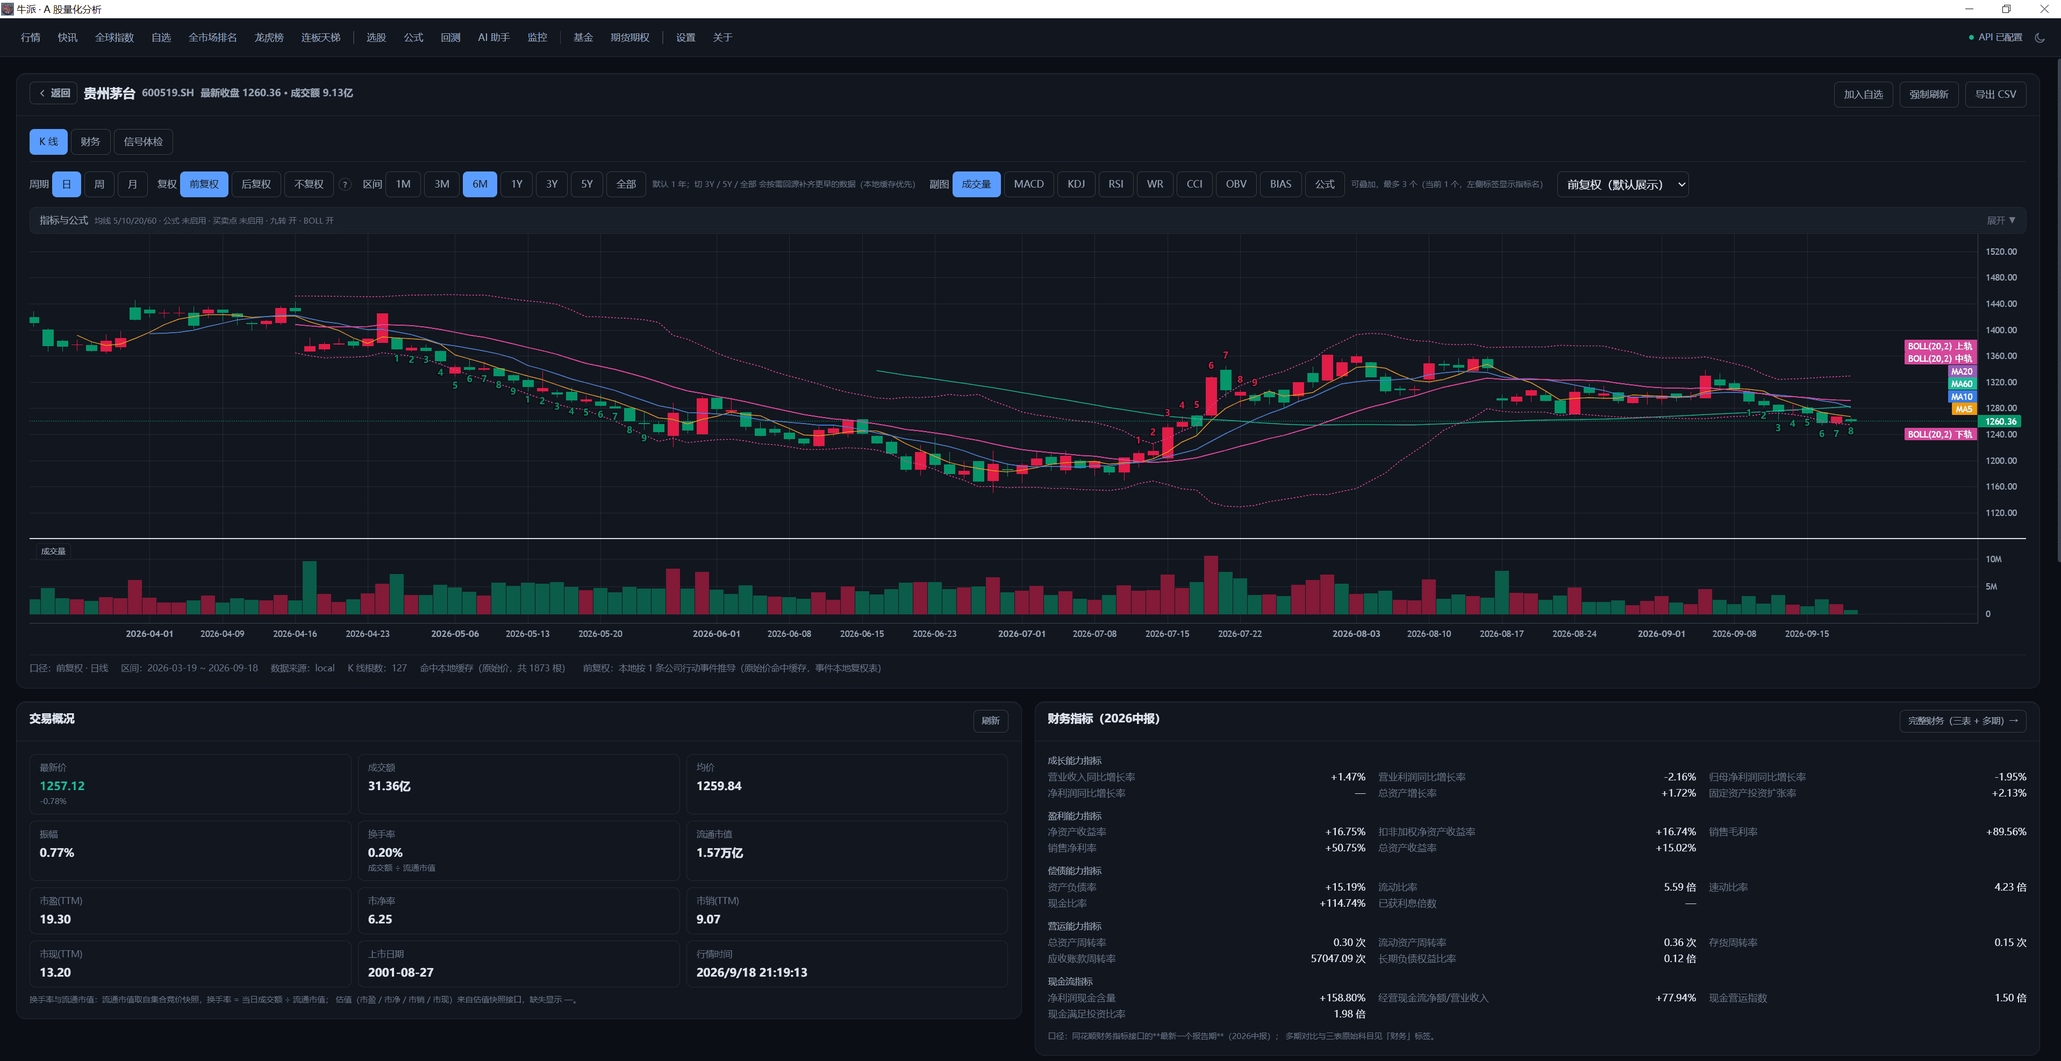
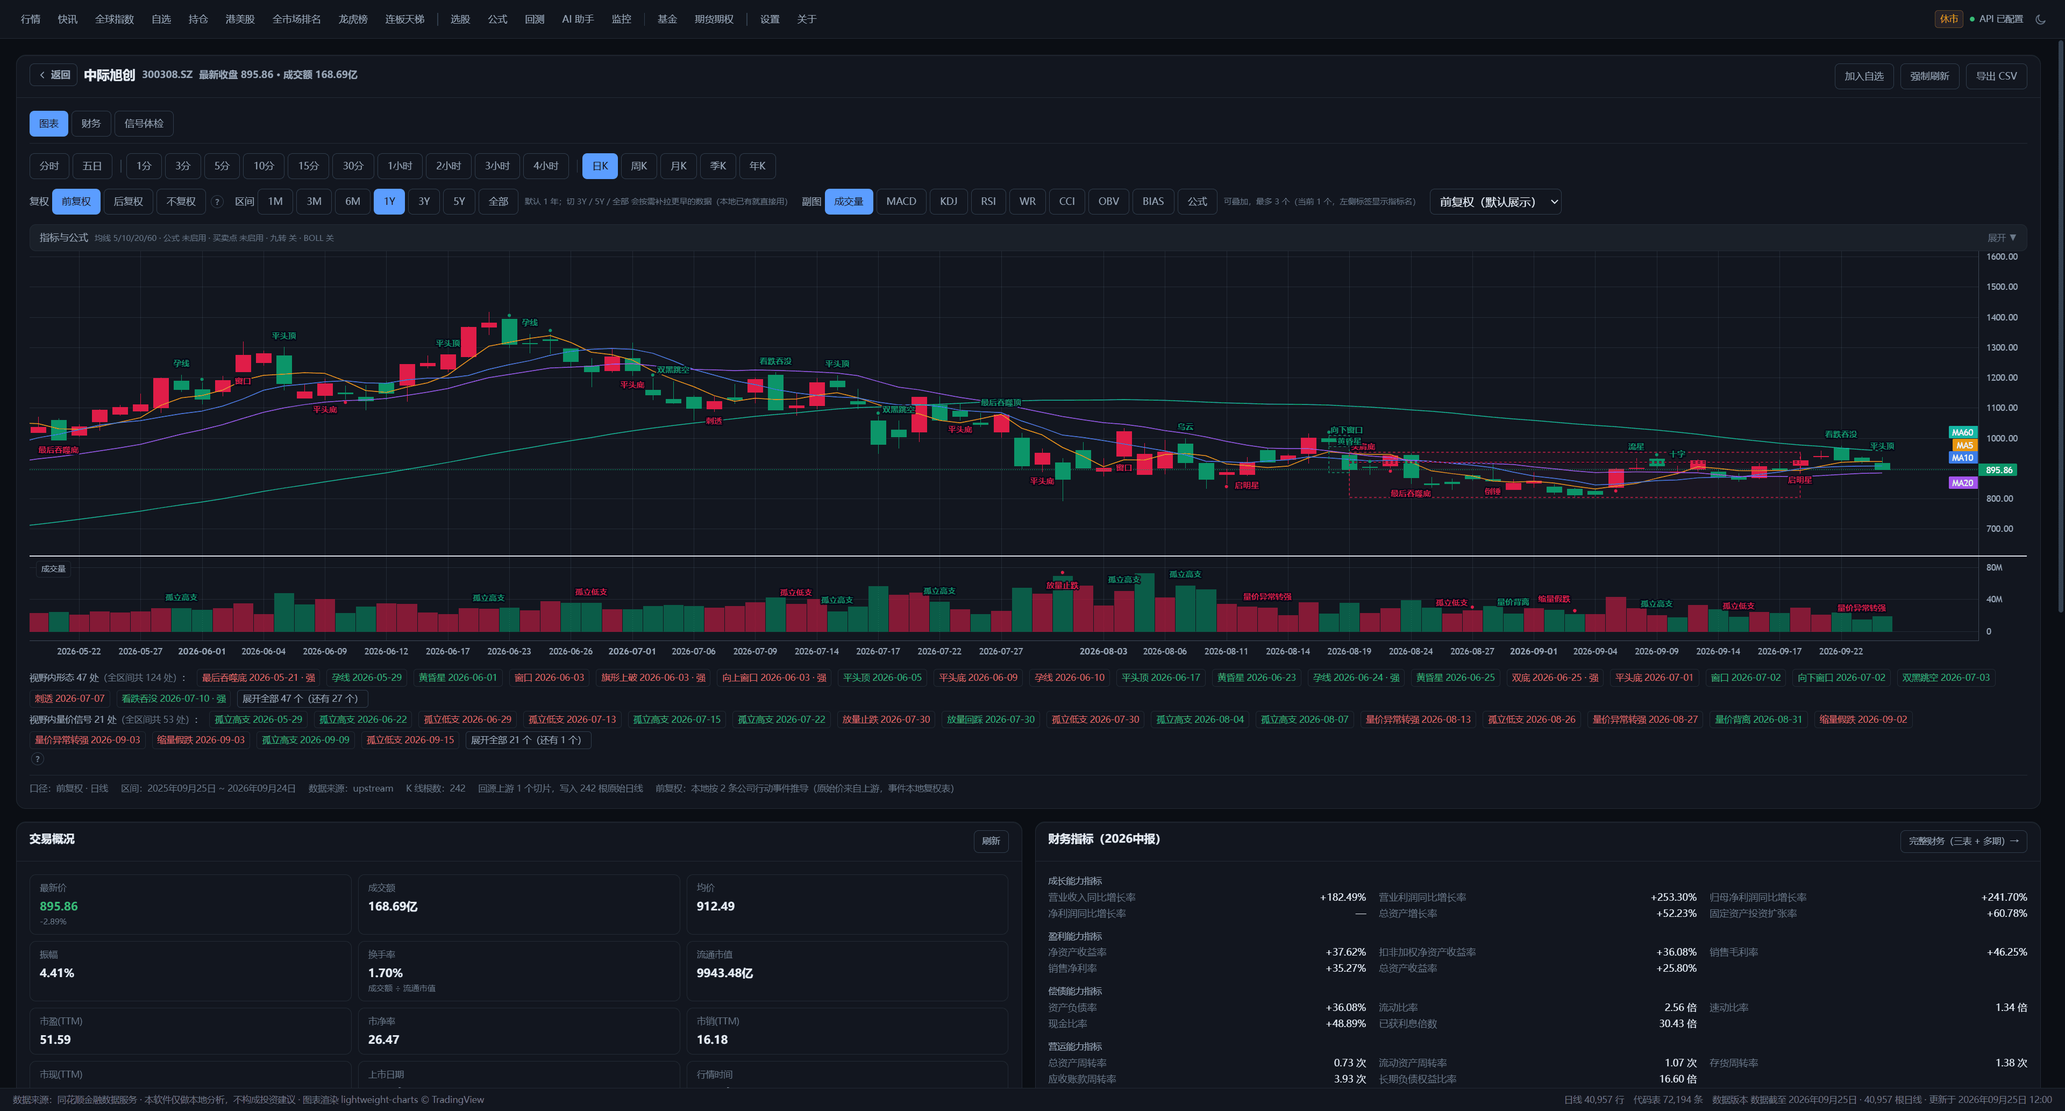
release 0.8.0

diff --git a/USER-GUIDE.md b/USER-GUIDE.md
@@ -33,7 +33,7 @@
 
 ## 二、从搜索一只股票开始
 
-在首页搜索框输入名称、代码或简称（「茅台」、`600519`），回车进入个股页。
+在首页搜索框输入名称、代码、简称或**拼音首字母**（「茅台」、`600519`、`gzmt` / `dkl`），回车进入个股页；首字母撞车的股票会一起列在下拉里，自己挑。
 
 ![行情总览](screenshot/1-1行情.png)
 
@@ -41,11 +41,11 @@
 
 ![行情总览补充](screenshot/1-2行情.png)
 
-个股页可看日 / 周 / 月 K 线，切换复权方式，叠加均线、MACD、RSI、成交量等指标。
+个股页可看日 / 周 / 月 K 线，切换复权方式，叠加均线、MACD、RSI、成交量等指标。分时图右边一列是**相对昨收的涨跌幅**，鼠标移到图上会出十字线，能看到那一刻的时间、价格、涨跌幅、均价和成交量。
 
 ![个股详情](screenshot/2-1详情.png)
 
-向下还有财务、分红、人气、异动、资金流、股东户数和公告等信息，每块都标注了自己的数据来源。
+向下还有财务、分红、人气、异动、资金流、股东户数和公告等信息，每块都标注了自己的数据来源。「公告」每条右侧有个**「AI 分析」**（配好模型才出现）：点开给出这条公告在说什么、偏利好还是偏利空、要关注什么。它**先取公告正文**再交给模型（正文里才有每股派息、股权登记日这类条款），正文取不到才退回只依据标题，弹框里会写明这次用的是哪一种。
 
 ![个股详情补充](screenshot/2-2详情.png)
 
@@ -55,7 +55,7 @@
 
 ### 自选股
 
-在个股页或列表里把股票加入自选。自选页支持分组、拖拽排序、批量看行情与手动 / 自动刷新；右键可以加入分组或移出自选。
+在个股页或列表里把股票加入自选。自选页支持分组、拖拽排序、批量看行情与手动 / 自动刷新；右键可以加入分组或移出自选。**新加入的自选排在列表最上面**。
 
 ![自选股](screenshot/5-自选.png)
 
@@ -84,6 +84,8 @@
 页面顶部「当日概览」给当日盈亏、收益率和相对上证的同期超额；下面几张卡分别打开资产分析、清仓分析、收益日历与交易笔记。
 
 行情口径：**开盘日按实时最新价算**，**非开盘日按最近一个收盘价算**（标题上会写明用的是哪种）；「相比上证」是同一时点的单日超额，不是建仓以来的累计。
+
+「当前持仓」卡里还有一张**行业分布环图**（按持仓市值算占比；ETF 与港美股归「未分类」），右边是同一口径的明细表——每个行业的持仓市值、浮动盈亏、收益率和只数，再右边是「最大行业 / 前三大合计 / 未分类占比 / 合计浮动盈亏」的小结。配好 AI 助手后，卡片右上角出现**「AI 分析持仓」**：软件先把权重、前三集中度、行业分布、逐只盈亏和同期大盘算好，再让模型做客观解读并提示需要关注的点（不给买卖建议，弹框里可以核对本地摘要与「将发送的内容」）。
 
 - **资产分析**：各区间盈亏、收益率、收益曲线、股票盈亏热力图、当前持仓、胜率与仓位；
 - **清仓分析**：已卖完的股票、累计投入、交易盈亏、分红与收益率；
@@ -132,9 +134,22 @@
 
 ![AI 助手](screenshot/11-ai助手.png)
 
+AI 助手页顶部有两个 tab：**问答与任务**（配置模型、提问、看历史）和**技能与知识库**。后者按**技能包**分层：一份知识 = 一个包，包里是一条条**条目**。软件自带四个包：**《日本蜡烛图技术》**（形态的术语、判据、前提与易错点，以及「怎么用」的几条，共 22 条）、**《日本蜡烛图技术新解》**（差异指数 / 偏离指数、三线反向突破图、砖形图、钥匙图，共 4 条，只做解释）、**《股市趋势技术分析》**（趋势线与通道、支撑与阻力、头肩、三角、矩形、旗形、缺口等西方经典图表分析，共 13 条）、**《量价分析》**（放量止跌止涨、买入 / 抛售高峰、缩量测试、孤立支点、伪突破这些量能读法，共 12 条）——除《新解》外，其余三个包里**可量化的那些条目会在 K 线图上自动标注**。多条目的包收成一行，点包名展开。列表里能**整包启停**（也可以只关掉包里的某一条）、上下调顺序（顺序越靠前，问到时越优先被参考；整包的上下移就是调包的位置）、写只存在本机的备注，点「预览」直接看内容。你也可以把自己的知识放进「打开技能目录」指向的 `skills\` 文件夹里：直接丢一个 md 文件进去，或者把从别处下载来的整个技能文件夹放进去（里面有 `SKILL.md` 就按那条收，`scripts\`、`references\` 这类内容会被跳过）；点「重新扫描」就会出现在列表里。不是软件格式的（比如第三方技能只写了 name / description）也会被收下，来源标「外部」——这类只参与问答参考，不会出现在 K 线形态识别里；几条想并进一个包，就在文件开头的信息块里写同一个 `collection`。软件内不改正文，也不执行技能文件里的任何脚本。
+
+个股 K 线页的「指标与公式」面板里还有两个开关：
+
+- **「形态标注（蜡烛图 + 经典图表）」**：打开后 K 线上标出识别到的形态（看涨在下、看跌在上）；头肩、双顶底、三角这类**区间形态**会画区间框与突破位，不想看到框可以把子开关「区间框」单独关掉。
+- **「量价信号（《量价分析》）」**：放量止跌 / 放量止涨、买入 / 抛售高峰、缩量测试、孤立支点、缩量伪突破这些量能读法，短名标在**成交量副图**对应的量柱上（副图关着时只在图下形态条里列出）。
+
+图下的形态条**按类目分行**（形态一行、量价信号一行），只列当前视野内的命中——点一个标签就能看到「这个形态是什么、这次为什么算命中、依据是哪几个数值」。两个开关各自独立，共用同一次扫描，关掉一个不影响另一个。判定完全在本地完成（判据是公开的技术分析规则，阈值都是相对比例，所以**跟着当前周期走**：日线看日线形态、周线看周线形态）；港美股个股 K 线用的是同一套开关与知识库（日线及以上），也不构成买卖建议。
+
+个股页右上角还有一个**「AI 分析」**（配好模型才出现）：它先把这只票的价格位置、均线、RSI / MACD / KDJ、量能和**上面那些知识库形态的命中**算成一份本地摘要，再让模型按知识库的说法讲清「现在是什么结构、这些形态各意味着什么、后面可以观察什么信号」，**不给买卖建议、也不预测涨跌**。写法面向不懂技术分析的人：第一句先给结论，遇到术语会顺带用大白话解释一遍；**明确的看涨 / 利多用红字、看跌 / 利空用绿字**（没标色的都是中性描述）。摘要和「将发送的内容」都能在弹框里逐条核对；**关掉弹框时正在跑的那次解读会直接中断**（不会在后台继续等结果、也不会继续计费），想重看再点一次就行。快讯、公告的 AI 解读与持仓分析也是同一套：关掉就走。分析用的周期、复权与**时间范围就是你图上那一套**——范围取图上 X 轴那段，滚轮缩放或拖动后点按钮，分析的就跟着变成眼前这段（均线 / MACD 这类指标会用这段之前的少量数据预热，和图上画指标同理）。
+
 ### 监控和消息推送（可选）
 
 在监控页建规则（价格、涨跌幅、公式信号等），可选收盘巡检或盘中巡检，推送到企业微信、企业微信机器人或飞书群机器人。推送内容是本地规则算出的摘要，不会把原始行情整包转发；推送凭据同样只存在本机。
+
+自选页分组那一行下面还有一条「**收盘 AI 总结**」（默认关，只占一行）：打开后，交易日 16:00 之后对自选生成一次总结（涨跌家数与前排、放量、当日公告与相关快讯）并推送到上面这些通道，每天最多一次；点「立即生成一次」可以马上看到效果（结果在弹窗里，不占列表位置；手动跑不占用当天的自动推送名额）。摘要里的数字都是本地算好的，模型只负责组织语言，另外会对当日公告标题做一次「是否重大利空」的判断——命中的标的当天只提醒一次；没配好模型时会只推本地摘要并说明原因。
 
 ![监控推送](screenshot/12-监控推送到企微飞书.png)
 
@@ -160,7 +175,7 @@
 - **指数条**：恒生指数 / 恒生国企 / 道琼斯 / 标普 500 / 纳斯达克综合。指数本身只有盘中价，第二行给对应的**指数期货主连**（第三方数据）用来看盘前和夜盘；取不到时退回跟踪同一指数的 ETF。纳指综合跟的是纳指 100 的期货，只作方向参考。
 - **自选**：与 A 股自选分开存，可搜代码或名称加入（指数也能加），列表带涨跌额、涨跌幅、自选以来涨跌幅和迷你走势。
 - **交易日历**：页面顶部标明今天港股 / 美股开不开市、各自的交易时段；自选的自动刷新按它走，休市日想手动看数据点「立即刷新」。
-- **个股**：K 线（日 / 周 / 月 / 季 / 年与 1–240 分钟）、分时、静态资料、估值与规模、基本面、资讯。美股分时可切「盘前 / 盘中 / 盘后 / 夜盘」（夜盘要求该标的在长桥的夜盘可交易名单里），港股只有常规时段和 16:00–16:10 收盘竞价。
+- **个股**：K 线（日 / 周 / 月 / 季 / 年，以及 1 / 5 / 15 / 30 / 60 分与 2 / 3 / 4 小时；日线及以上可切不复权 / 前复权，**形态标注与量价信号也只在日线及以上生效**）、分时、静态资料、估值与规模、基本面、资讯。美股分时可切「盘前 / 盘中 / 盘后 / 夜盘」（夜盘要求该标的在长桥的夜盘可交易名单里），港股只有常规时段和 16:00–16:10 收盘竞价。
 - **分时时段**：美股的分时入口是详情卡头部的下拉（「分时 · 夜盘」这种写法）——选哪一段就直接切到分时并画那一段；图上悬停显示该时点的价、涨跌幅、均价与该分钟成交量。当前不在所选时段时，自动显示**上一个交易日同一时段**的分时。
 - **资金流**：跟在 K 线 / 分时图表下方（不用切 tab）。左边是当日**累计净流入曲线**（横轴当地时间、悬停看该分钟），右边是**资金分布**（环图 + 大 / 中 / 小三档的蝶形对照条，两侧同一把尺子）。曲线是「从开盘起的累计值」（末点即当日合计），单分钟可能有较大台阶，不是画错。
 - **分钟级 K 线跟着时段走**：选 1 分 / 5 分 / … / 4 小时时，画的是时段下拉里选中的那一段，且**只看最近一个交易日的那一段**（5 分 + 盘中 = 从最近交易日的 09:30 开始）。日 K 及以上不分时段，港股也没有延长时段。

diff --git a/README.md b/README.md
@@ -45,15 +45,19 @@
 ## 可以做什么
 
 - **看市场**：查看大盘、涨跌分布、板块表现、资金情况和市场快讯。
-- **看个股**：搜索股票，查看 K 线、指标、财务摘要、公告等信息。
-- **管理自选**：把常看的股票加入自选并按分组整理；也能**批量导入**（上传 CSV/TSV 或粘贴一列代码与名称，本地解析、本地匹配后再入库）。
-- **记录持仓**：补录买卖、分红和出入金，查看当日概览、仓位占比、收益日历、清仓分析、交易笔记及股票盈亏排行；资产分析和收益日历还可以与上证指数做同期对比。
+- **看个股**：搜索股票（名称 / 代码 / **拼音首字母**，如 `gzmt` → 贵州茅台），查看 K 线、指标、财务摘要、公告等信息；「公告」每条可点**「AI 分析」**（配好模型才出现），先取正文再让模型说这条公告在说什么、偏利好还是偏利空。
+- **管理自选**：把常看的股票加入自选并按分组整理（**新加入的排在列表最上面**）；也能**批量导入**（上传 CSV/TSV 或粘贴一列代码与名称，本地解析、本地匹配后再入库）。
+- **记录持仓**：补录买卖、分红和出入金，查看当日概览、仓位占比、**持仓行业分布环图**、收益日历、清仓分析、交易笔记及股票盈亏排行；资产分析和收益日历还可以与上证指数做同期对比；配好模型后可用**「AI 分析持仓」**看权重、集中度、行业分布与逐只盈亏的客观解读（不给买卖建议）。
 - **条件选股**：使用内置条件或自定义公式筛选股票。
 - **策略回测**：用历史数据检查策略过去的表现，并查看收益曲线和交易明细。
 - **设置提醒**：满足价格、涨跌幅或公式条件时，发送到已配置的通知渠道。
 - **查看更多市场**：查看全球指数、公募基金、期货和期权等信息。
 - **看港美股（可选）**：接入长桥 OpenAPI，查看港股 / 美股的指数、自选、K 线与分时（美股还能单独看盘前 / 盘中 / 盘后 / 夜盘）、**个股资金流**、静态资料、**基本面（财报三表 / 主营构成 / 股东与高管 / 分红回购 / 一致预期与估值历史）**与**资讯（新闻 / 公告 / 机构评级；A+H 标的还显示 AH 溢价）**；页面顶部有**交易日历**（今天哪个市场开市、各自时段，自选刷新按它走），指数卡片下方挂着对应的**指数期货主连**，用来看盘前和夜盘的走向。**只读行情，不接交易通道、不下单。**
 - **使用 AI 助手**：可选接入本地模型或自己的模型服务，用来解释结果和整理思路。
+- **收盘 AI 总结（可选）**：自选页上的一行开关，交易日 16:00 后对自选生成一次总结并推送到已配置的通道，每天最多一次；正文由模型组织，数字全部来自本地算好的摘要，模型还会对当日公告标题做一次「重大利空」判定（同一标的当日只提醒一次）。不需要可以完全不开。
+- **形态标注（可选）**：个股页「指标与公式」里的两个开关。**「形态标注」**按内置知识库在本机识别蜡烛图（乌云盖顶、红三兵这类）与经典图表形态（头肩、双顶底、三角、旗形、缺口…）：图上标短名、区间形态画框与突破位，图下**按类目分行**列出命中并给出依据数值，**跟着当前周期走**（日线看日线、周线看周线），港美股 K 线用的是同一套。**「量价信号（《量价分析》）」**是独立的第二个开关，把量能读法标在**成交量副图**上。判定全在本地完成，模型不参与。终端可用 `bull-pie-cli patterns <代码> --start <日期> --end <日期>` 验证同一份结果。
+- **个股 AI 分析（可选）**：个股页右上角的**「AI 分析」**。软件先把这只票的价格位置、均线、RSI / MACD / KDJ、量能算好，再把**图上那些知识库形态的命中**（名字、前提、确认条件、依据数值）一起交给模型，让它讲清「现在的结构是什么、这些形态各意味着什么、后面可以观察什么信号」。**不预测涨跌、不给买卖建议**；分析用的周期与复权就是你当前图上的那一套，弹框里可以逐条核对它看到了什么。
+- **技能与知识库**：AI 助手页的第二个 tab。按「技能包」分两层层级：一份知识 = 一个包，包里是一条条条目；多个条目的包收成一行，可整包启停、整体调顺序。软件自带四个包：**《日本蜡烛图技术》**（形态术语、判据与用法，22 条）、**《日本蜡烛图技术新解》**（差异指数 / 偏离指数、三线反向突破图、砖形图、钥匙图，4 条，只解释）、**《股市趋势技术分析》**（趋势线、支撑阻力、头肩、三角、矩形、旗形、缺口等西方经典图表分析，13 条）、**《量价分析》**（量能读法：放量止跌止涨、高峰、缩量测试、孤立支点、伪突破，12 条）——除《新解》外，其余包里可量化的条目会在 K 线上自动标注。你也可以把自己的 md 放进数据目录的 `skills/` 目录里，助手回答相关问题时会参考；软件只读这些文件、**不执行里面的任何脚本**。
 
 部分功能需要先在 **设置 → 数据** 中导入全市场日线。首次导入需要一点时间，之后通常只需更新新增数据。
 

diff --git a/cli-intro.md b/cli-intro.md
@@ -15,6 +15,7 @@
 | **批量跑回测参数**（网格搜索） | `for f in specs/*.json; do bull-pie-cli backtest run --spec "$f" --out "out/$(basename "$f")"; done` |
 | **把自己算的结果导给 Python / Excel** | `bull-pie-cli bars 600519.SH --start 2026-01-01 --end 2026-09-18 --json > bars.json` |
 | **找相似走势的票，接进别的流程** | `bull-pie-cli shape --reference 600519.SH --vol-days 2 --vol-ratio 1.5 --near-low 8 --json` |
+| **核对图上标的形态**（哪一根、凭什么算命中） | `bull-pie-cli patterns 600519.SH --start 2026-01-01 --end 2026-09-24 --interval week --json` |
 | **先看环境对不对**（排障第一步） | `bull-pie-cli status` |
 | **给 AI 客户端当数据源** | `bull-pie-cli mcp`（见 [mcp-intro.md](mcp-intro.md)） |
 | **收盘后拉一批价量**（自选 / 指定标的） | `bull-pie-cli quote 600519.SH,000001.SZ --out snap.json` |
@@ -134,6 +135,19 @@ bull-pie-cli shape --reference 600519.SH [--window 20] [--start 2026-06-01 --end
 按参照标的的形状（归一化价格 + 量能距离）在**本地全市场底库**上找相似股票。
 默认取最近 `--window` 根；`--start/--end` 成对给出时按指定历史区间比较（最多 120 个交易日）。
 可要求近期连续放量、限制在区间低点附近。默认排除 ST。
+
+### `patterns` — 形态识别
+
+```bash
+bull-pie-cli patterns <代码> --start <日期> --end <日期> \
+  [--interval day|week|month] [--adjust forward|backward|none] [--strong-only] [--limit N] [--json]
+```
+
+按软件内置的形态知识库在本地识别：蜡烛图 16 类 + 经典图表 7 类。结果与个股页 K 线上的标注是**同一份**，
+可以拿来核对「图上标的那几个到底是怎么算出来的」。`--strong-only` 只列强度为「强」的命中；
+代码要带后缀（`600519.SH`）。
+
+> 日线以外也支持周线 / 月线（阈值是相对比例，与周期无关）；分钟级不做形态识别。
 
 ### `backtest` — 回测
 
